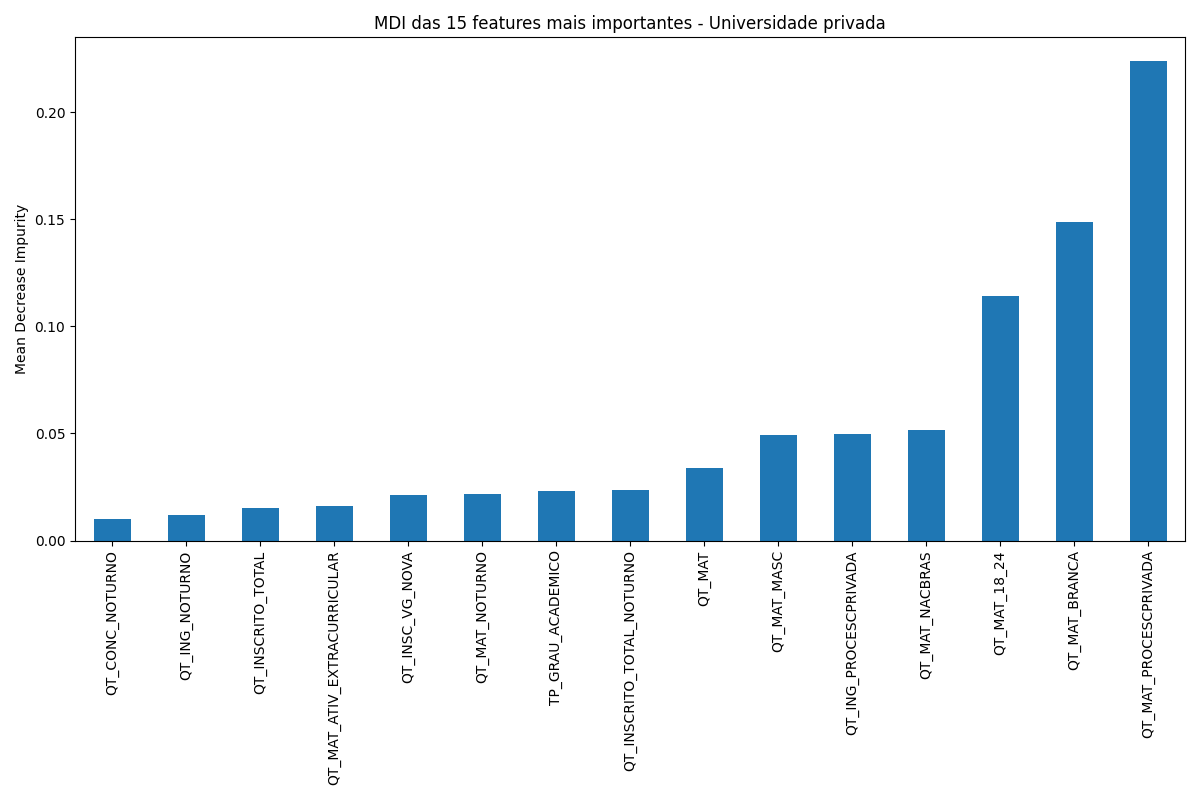
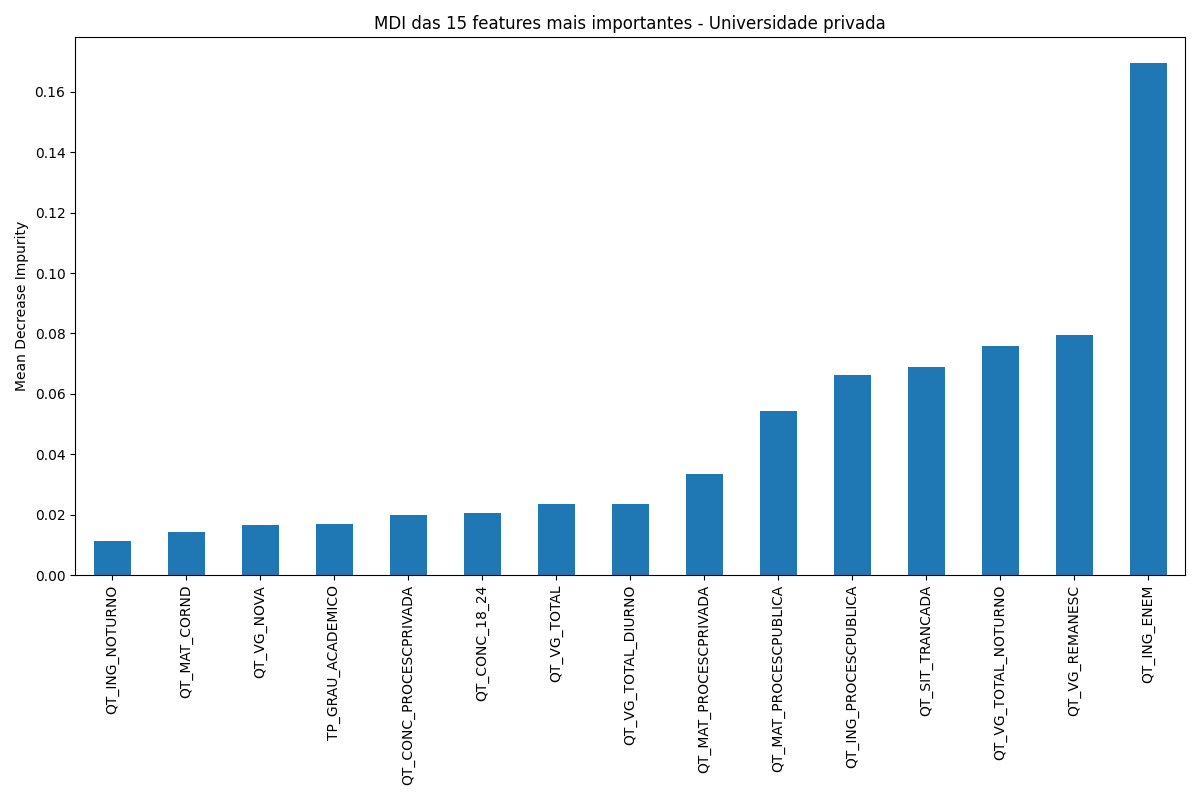
Ajusta script de cálculo de feature importance

diff --git a/forest_feature_importance.py b/forest_feature_importance.py
@@ -8,15 +8,15 @@ from sklearn.tree import plot_tree
 
 from preprocessing import columns
 
-df = pandas.read_csv('dados/normalizado-preprocessado-publico.csv', sep=';', encoding='latin-1')
-X, y = df[columns], df['PERC_DESVINCULADO']
+df = pandas.read_csv('dados/normalizado-preprocessado-publico-indicadores.csv', sep=';', encoding='latin-1')
+y, X = df['TADA'], df.drop('TADA', axis=1)
 
 X_train, X_test, y_train, y_test = train_test_split(X, y, test_size=0.25, random_state=42)
 
-regr = RandomForestRegressor(**{'bootstrap': True, 'criterion': 'friedman_mse', 'max_samples': 0.4, 'min_samples_leaf': 8, 'min_weight_fraction_leaf': 0.1, 'n_estimators': 100})
+regr = RandomForestRegressor(**{'bootstrap': True, 'criterion': 'squared_error', 'max_samples': 0.4, 'min_samples_leaf': 1, 'min_weight_fraction_leaf': 0.1, 'n_estimators': 100})
 regr = regr.fit(X_train, y_train)
 
-imp = pandas.Series(regr.feature_importances_, index=columns)
+imp = pandas.Series(regr.feature_importances_, index=X.columns)
 imp.sort_values(inplace=True)
 print(imp[-15:].values)
 print(imp[-15:].values.sum())
@@ -28,7 +28,7 @@ print('Features consideradas: ', imp[imp != 0].count())
 ax.set_title('MDI das 15 features mais importantes - Universidade pública')
 ax.set_ylabel("Mean Decrease Impurity")
 fig.tight_layout()
-fig.savefig('forest_importance_publico.png')
+fig.savefig('images/forest_importance_publico.png')
 
 #for i in sample(range(len(regr.estimators_)), k=5):
 #    fig, ax = plt.subplots(figsize=(20, 20))
